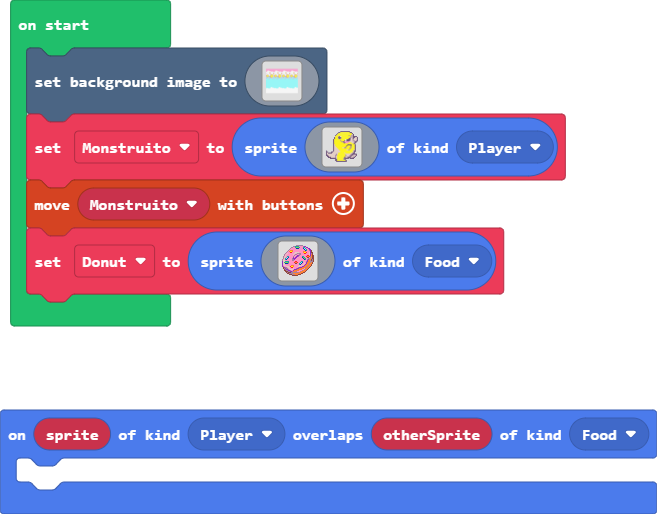
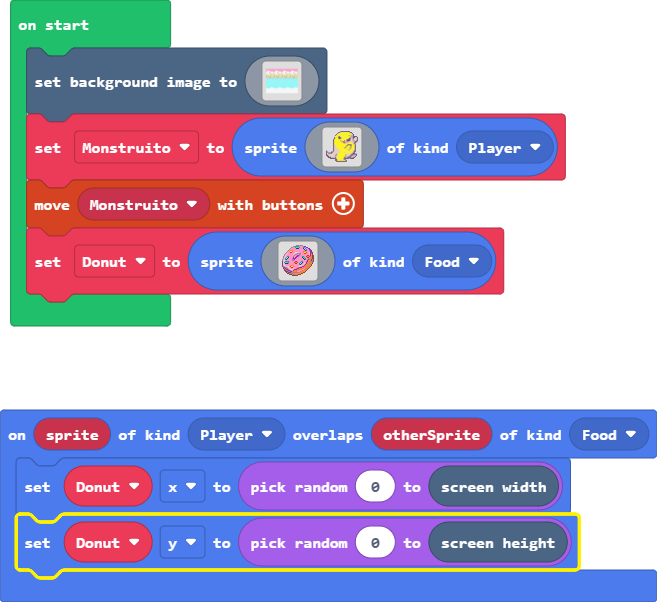
Update main.blocks, main.ts

diff --git a/main.ts b/main.ts
@@ -1,6 +1,8 @@
 sprites.onOverlap(SpriteKind.Player, SpriteKind.Food, function (sprite, otherSprite) {
-	
+    Donut.x = randint(0, scene.screenWidth())
+    Donut.y = randint(0, scene.screenHeight())
 })
+let Donut: Sprite = null
 scene.setBackgroundImage(img`
     3333333333333333333333333333333333333333333333333333333333333333333333333333333333333333333333333333333333333333333333333333333333333333333333333333333333333333
     3333333333333333333333333333333333333333333333333333333333333333333333333333333333333333333333333333333333333333333333333333333333333333333333333333333333333333
@@ -156,7 +158,7 @@ let Monstruito = sprites.create(img`
     ..........cccccccccc...........
     `, SpriteKind.Player)
 controller.moveSprite(Monstruito)
-let Donut = sprites.create(img`
+Donut = sprites.create(img`
     ..............bbbbbbb...........
     ...........bb66663333baa........
     .........bb3367776333663aa......
